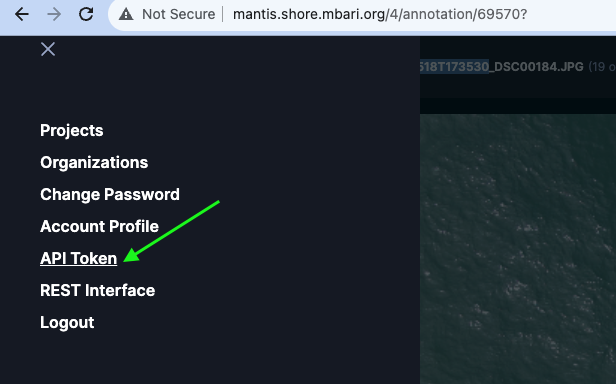
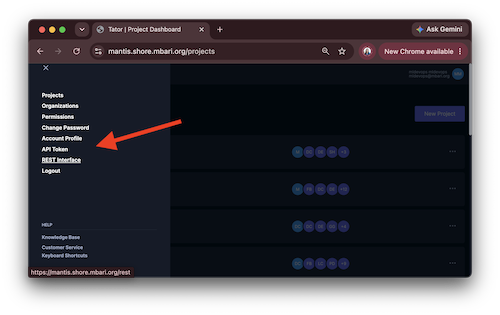
feat: dynamically include all localization attributes in localizations.csv (#66)
Summary

    Adds generators/localization_csv.py with get_localization_attribute_columns, get_media_attribute_columns, and get_localization_csv_row to dynamically discover and emit all localization and media attributes in the CSV.
    Replaces the hardcoded verified, cluster, saliency, area, predicted_label, label, score, label_s, score_s column set in coco_voc.py with a dynamic header built from the union of all attribute keys found across every localization and media object — mirroring the media attribute expansion pattern.
    Uses csv.writer (instead of raw f.write) so values containing commas or quotes are handled correctly.
    Adds 12 unit tests in tests/test_coco_voc_localizations_csv.py covering column discovery, edge cases (empty list, None attributes, deduplication), and row-building (correct order, missing keys → "").

Closes #64

Pull request: feat: dynamically include all localization attributes in localizations.csv
## Summary

- Adds `generators/localization_csv.py` with `get_localization_attribute_columns`, `get_media_attribute_columns`, and `get_localization_csv_row` to dynamically discover and emit all localization and media attributes in the CSV.
- Replaces the hardcoded `verified, cluster, saliency, area, predicted_label, label, score, label_s, score_s` column set in `coco_voc.py` with a dynamic header built from the union of all attribute keys found across every localization and media object — mirroring the media attribute expansion pattern.
- Uses `csv.writer` (instead of raw `f.write`) so values containing commas or quotes are handled correctly.
- Adds 12 unit tests in `tests/test_coco_voc_localizations_csv.py` covering column discovery, edge cases (empty list, `None` attributes, deduplication), and row-building (correct order, missing keys → `""`).

Closes #64

## Test plan

- [x] `pytest tests/test_coco_voc_localizations_csv.py` — all 12 tests pass
- [x] `pytest tests/test_roi_crop_filter.py tests/test_split.py` — no regressions
- [x] Smoke-test a real `download` run and verify `localizations.csv` contains project-specific attribute columns beyond the old hardcoded set

Made with [Cursor](https://cursor.com)

diff --git a/tests/test_coco_voc_localizations_csv.py b/tests/test_coco_voc_localizations_csv.py
@@ -1,10 +1,73 @@
 # mbari_aidata, Apache-2.0 license
-# Filename: test_coco_voc_localizations_csv.py
-# Description: Tests media attribute export helpers for localization CSV output
+# Filename: tests/test_coco_voc_localizations_csv.py
+# Description: Tests for dynamic localization and media attribute column discovery and CSV row building
 from types import SimpleNamespace
 
-from mbari_aidata.generators.localization_csv import get_localization_csv_row, get_media_attribute_columns
+from mbari_aidata.generators.localization_csv import (
+    get_localization_attribute_columns,
+    get_media_attribute_columns,
+    get_localization_csv_row,
+)
 
+
+def _make_loc(attributes, x=0.1, y=0.2, width=0.3, height=0.4, frame=5, elemental_id="abc-123", media_id=1):
+    return SimpleNamespace(
+        attributes=attributes,
+        x=x,
+        y=y,
+        width=width,
+        height=height,
+        frame=frame,
+        elemental_id=elemental_id,
+        media=media_id,
+    )
+
+
+def _make_media(attributes, name="image.jpg", media_id=1):
+    return SimpleNamespace(attributes=attributes, name=name, id=media_id)
+
+
+# ---------------------------------------------------------------------------
+# get_localization_attribute_columns
+# ---------------------------------------------------------------------------
+
+def test_get_localization_attribute_columns_returns_sorted_union():
+    locs = [
+        _make_loc({"Label": "fish", "score": 0.9, "verified": True}),
+        _make_loc({"Label": "shrimp", "cluster": "A", "saliency": 500}),
+    ]
+    cols = get_localization_attribute_columns(locs)
+    assert cols == sorted({"Label", "score", "verified", "cluster", "saliency"})
+
+
+def test_get_localization_attribute_columns_empty_list():
+    assert get_localization_attribute_columns([]) == []
+
+
+def test_get_localization_attribute_columns_none_attributes():
+    loc = _make_loc(None)
+    assert get_localization_attribute_columns([loc]) == []
+
+
+def test_get_localization_attribute_columns_single_loc():
+    locs = [_make_loc({"custom_field": "value", "Label": "eel"})]
+    cols = get_localization_attribute_columns(locs)
+    assert cols == ["Label", "custom_field"]
+
+
+def test_get_localization_attribute_columns_deduplicates():
+    locs = [
+        _make_loc({"Label": "fish", "score": 0.8}),
+        _make_loc({"Label": "crab", "score": 0.5}),
+    ]
+    cols = get_localization_attribute_columns(locs)
+    assert cols.count("Label") == 1
+    assert cols.count("score") == 1
+
+
+# ---------------------------------------------------------------------------
+# get_media_attribute_columns
+# ---------------------------------------------------------------------------
 
 def test_get_media_attribute_columns_collects_sorted_unique_keys():
     media = [
@@ -12,37 +75,72 @@ def test_get_media_attribute_columns_collects_sorted_unique_keys():
         SimpleNamespace(attributes={"depth": 200, "section": "A"}),
         SimpleNamespace(attributes=None),
     ]
-
     columns = get_media_attribute_columns(media)
-
     assert columns == ["depth", "iso_datetime", "section"]
 
 
-def test_get_localization_csv_row_appends_media_attributes():
-    media = SimpleNamespace(name="media-1.mp4", attributes={"iso_datetime": "2024-01-01T00:00:00Z", "depth": 4123})
-    localization = SimpleNamespace(
-        frame=17,
-        elemental_id="uuid-1",
-        attributes={
-            "verified": True,
-            "cluster": "c1",
-            "saliency": 0.9,
-            "area": 10,
-            "predicted_label": "pred",
-            "Label": "gt",
-            "score": 0.99,
-            "label_s": "pred2",
-            "score_s": 0.5,
-        },
-        x=0.1,
-        y=0.2,
-        width=0.3,
-        height=0.4,
-    )
-
-    row = get_localization_csv_row(media, localization, ["depth", "iso_datetime", "section"])
-
-    assert row == [
-        "media-1.mp4", 17, "uuid-1", True, "c1", 0.9, 10, "pred", "gt", 0.99, "pred2", 0.5, 0.1, 0.2, 0.3, 0.4, 4123,
-        "2024-01-01T00:00:00Z", "",
+def test_get_media_attribute_columns_returns_sorted_union():
+    media = [
+        _make_media({"depth": 100, "section": "transect-1"}),
+        _make_media({"depth": 200, "temperature": 4.5}),
     ]
+    cols = get_media_attribute_columns(media)
+    assert cols == sorted({"depth", "section", "temperature"})
+
+
+def test_get_media_attribute_columns_empty_list():
+    assert get_media_attribute_columns([]) == []
+
+
+def test_get_media_attribute_columns_none_attributes():
+    m = _make_media(None)
+    assert get_media_attribute_columns([m]) == []
+
+
+# ---------------------------------------------------------------------------
+# get_localization_csv_row
+# ---------------------------------------------------------------------------
+
+def test_get_localization_csv_row_basic():
+    loc = _make_loc({"Label": "fish", "score": 0.9}, x=0.1, y=0.2, width=0.3, height=0.4, frame=7, elemental_id="uuid-1")
+    media = _make_media({"depth": 150}, name="frame007.jpg")
+
+    loc_cols = ["Label", "score"]
+    media_cols = ["depth"]
+
+    row = get_localization_csv_row(media, loc, loc_cols, media_cols)
+    assert row == ["frame007.jpg", 7, "uuid-1", "fish", 0.9, 0.1, 0.2, 0.3, 0.4, 150]
+
+
+def test_get_localization_csv_row_missing_attribute_uses_empty_string():
+    loc = _make_loc({"Label": "eel"}, frame=0, elemental_id="uuid-2")
+    media = _make_media({}, name="img.jpg")
+
+    loc_cols = ["Label", "cluster", "saliency"]
+    media_cols = ["depth", "section"]
+
+    row = get_localization_csv_row(media, loc, loc_cols, media_cols)
+    assert row[4] == ""  # cluster absent
+    assert row[5] == ""  # saliency absent
+    assert row[10] == ""  # depth absent
+    assert row[11] == ""  # section absent
+
+
+def test_get_localization_csv_row_column_order():
+    loc = _make_loc({"Label": "fish", "score": 0.5}, x=0.0, y=0.1, width=0.2, height=0.3, frame=1, elemental_id="eid")
+    media = _make_media({"section": "s1"}, name="m.jpg")
+
+    loc_cols = ["Label", "score"]
+    media_cols = ["section"]
+
+    row = get_localization_csv_row(media, loc, loc_cols, media_cols)
+    # [media.name, frame, uuid, Label, score, x, y, w, h, section]
+    assert row == ["m.jpg", 1, "eid", "fish", 0.5, 0.0, 0.1, 0.2, 0.3, "s1"]
+
+
+def test_get_localization_csv_row_no_columns():
+    loc = _make_loc({}, frame=3, elemental_id="e3", x=0.5, y=0.5, width=0.1, height=0.1)
+    media = _make_media({}, name="bare.jpg")
+
+    row = get_localization_csv_row(media, loc, [], [])
+    assert row == ["bare.jpg", 3, "e3", 0.5, 0.5, 0.1, 0.1]

diff --git a/mbari_aidata/generators/localization_csv.py b/mbari_aidata/generators/localization_csv.py
@@ -1,43 +1,57 @@
 # mbari_aidata, Apache-2.0 license
 # Filename: generators/localization_csv.py
-# Description: Helper functions for creating localization CSV rows with media attributes
+# Description: Helper functions for generating a localizations CSV from Tator data
 from typing import Any, Iterable, List
 
 
-def get_media_attribute_columns(all_media: Iterable[Any]) -> List[str]:
-    columns = set()
-    for media in all_media:
-        attributes = getattr(media, "attributes", None)
-        if isinstance(attributes, dict):
+def get_localization_attribute_columns(all_localizations: Iterable[Any]) -> List[str]:
+    """
+    Collect the sorted union of all attribute keys across every localization.
+    Analogous to get_media_attribute_columns for media objects.
+    """
+    columns: set = set()
+    for loc in all_localizations:
+        attributes = getattr(loc, "attributes", None)
+        if attributes and hasattr(attributes, "keys"):
             columns.update(attributes.keys())
     return sorted(columns)
 
 
-def get_localization_csv_row(media: Any, localization: Any, media_attribute_columns: List[str]) -> List[Any]:
-    media_attributes = getattr(media, "attributes", None)
-    if not isinstance(media_attributes, dict):
-        media_attributes = {}
+def get_media_attribute_columns(all_media: Iterable[Any]) -> List[str]:
+    """
+    Collect the sorted union of all attribute keys across every media item.
+    """
+    columns: set = set()
+    for media in all_media:
+        attributes = getattr(media, "attributes", None)
+        if attributes and hasattr(attributes, "keys"):
+            columns.update(attributes.keys())
+    return sorted(columns)
 
-    localization_attributes = getattr(localization, "attributes", None)
-    if not isinstance(localization_attributes, dict):
-        localization_attributes = {}
 
-    return [
-        media.name,
-        localization.frame,
-        localization.elemental_id,
-        localization_attributes.get("verified", False),
-        localization_attributes.get("cluster", "Unknown"),
-        localization_attributes.get("saliency", -1),
-        localization_attributes.get("area", -1),
-        localization_attributes.get("predicted_label", "Unknown"),
-        localization_attributes.get("Label", "Unknown"),
-        localization_attributes.get("score", 0),
-        localization_attributes.get("label_s", "Unknown"),
-        localization_attributes.get("score_s", 0),
-        localization.x,
-        localization.y,
-        localization.width,
-        localization.height,
-        *[media_attributes.get(column, "") for column in media_attribute_columns],
-    ]
+def get_localization_csv_row(
+    media: Any,
+    localization: Any,
+    localization_attribute_columns: List[str],
+    media_attribute_columns: List[str],
+) -> List[Any]:
+    """
+    Build a CSV row for a single localization.
+
+    Column order: media, frame, uuid, <localization attributes...>, x, y, width, height,
+    <media attributes...>
+    """
+    loc_attrs = getattr(localization, "attributes", None) or {}
+    media_attrs = getattr(media, "attributes", None) or {}
+
+    row: List[Any] = [media.name, localization.frame, localization.elemental_id]
+
+    for col in localization_attribute_columns:
+        row.append(loc_attrs.get(col, ""))
+
+    row.extend([localization.x, localization.y, localization.width, localization.height])
+
+    for col in media_attribute_columns:
+        row.append(media_attrs.get(col, ""))
+
+    return row

diff --git a/mbari_aidata/generators/coco_voc.py b/mbari_aidata/generators/coco_voc.py
@@ -14,10 +14,13 @@ import tator  # type: ignore
 import pandas as pd
 from PIL import Image
 from tqdm import tqdm
-from pascal_voc_writer import Writer  # type: ignore
 from mbari_aidata.logger import debug, info, err, exception
 from mbari_aidata.generators.cifar import create_cifar_dataset
-from mbari_aidata.generators.localization_csv import get_localization_csv_row, get_media_attribute_columns
+from mbari_aidata.generators.localization_csv import (
+    get_localization_attribute_columns,
+    get_media_attribute_columns,
+    get_localization_csv_row,
+)
 from mbari_aidata.generators.utils import build_roi_crop_filter, combine_localizations, crop_frame, crop_frame_multi
 from tator.openapi.tator_openapi import Localization  
 
@@ -518,21 +521,20 @@ def download(
 
         info(f"Finished cropping {num_localizations} ROIs")
 
-        # Create a simple csv file with the media name, cluster, etc. and normalized box coordinates
+        # Create a simple csv file with the media name and normalized box coordinates.
+        # Attribute columns are discovered dynamically so project-specific fields are included.
+        all_localizations = [loc for locs in localizations_by_media_id.values() for loc in locs]
+        localization_attribute_columns = get_localization_attribute_columns(all_localizations)
         media_attribute_columns = get_media_attribute_columns(all_media)
-        localization_columns = [
-            "media", "frame", "uuid", "verified", "cluster", "saliency", "area",
-            "predicted_label", "label", "score", "label_s", "score_s",
-            "x", "y", "width", "height",
-        ]
+        header = ["media", "frame", "uuid"] + localization_attribute_columns + ["x", "y", "width", "height"] + media_attribute_columns
+
         with (output_path / "localizations.csv").open("w", newline="") as f:
             writer = csv.writer(f)
-            writer.writerow(localization_columns + media_attribute_columns)
+            writer.writerow(header)
             for m in all_media:
                 media_localizations = localizations_by_media_id[m.id]
-
                 for loc in media_localizations:
-                    writer.writerow(get_localization_csv_row(m, loc, media_attribute_columns))
+                    writer.writerow(get_localization_csv_row(m, loc, localization_attribute_columns, media_attribute_columns))
 
         info(f'Finished creating {output_path / "localizations.csv"}')
 